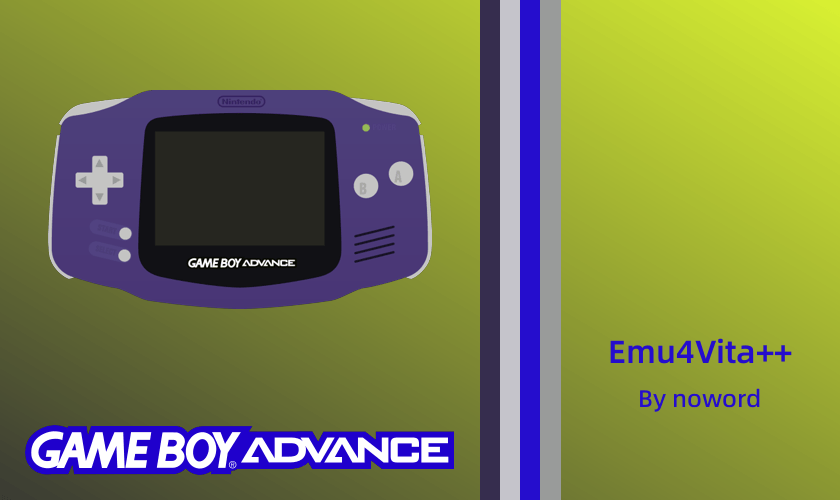
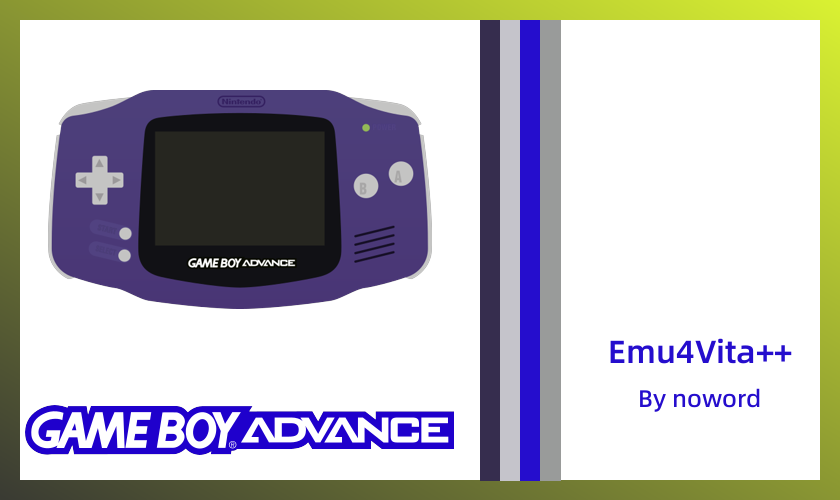
update livearea images

diff --git a/script/gen_livearea.py b/script/gen_livearea.py
@@ -20,6 +20,7 @@ TEXT_X = CONSOLE_WIDTH + STRIP_WIDTH * 4
 TEXT_Y = HEIGHT - 210
 TEXT_W = WIDTH - TEXT_X
 TEXT_H = 210 // 2
+EDGE_WIDTH = 20
 FONT = ImageFont.truetype('AlibabaPuHuiTi-2-75-SemiBold.ttf', 32)
 SMALL_FONT = ImageFont.truetype('AlibabaPuHuiTi-2-65-Medium.ttf', 24)
 TEXT = 'Emu4Vita++'
@@ -80,7 +81,7 @@ def do(console_name, cores):
         w, h = console.size
     im.paste(console, ((CONSOLE_WIDTH - w) // 2, (CONSOLE_HEIGHT - h) // 2), console)
     w, h = logo.size
-    im.paste(logo, (((LOGO_WIDTH - w) // 2, CONSOLE_HEIGHT + (LOGO_HEIGHT - h) // 2)), logo)
+    im.paste(logo, (((LOGO_WIDTH - w) // 2, CONSOLE_HEIGHT + (LOGO_HEIGHT - h) // 2 - EDGE_WIDTH)), logo)
 
     out = BytesIO()
     im.save(out, format='png')
@@ -89,14 +90,14 @@ def do(console_name, cores):
     draw = ImageDraw.Draw(im)
     for i, color in enumerate(colors):
         x = CONSOLE_WIDTH + i * STRIP_WIDTH
-        draw.rectangle((x, 0, x + STRIP_WIDTH, HEIGHT), fill=color)
+        draw.rectangle((x, EDGE_WIDTH, x + STRIP_WIDTH, HEIGHT - EDGE_WIDTH), fill=color)
 
     colors.sort(key=lambda x: get_luminance(x))
 
-    if console_name in NOT_DARKEST:
-        dark_color = colors[NOT_DARKEST[console_name]]
-    else:
-        dark_color = colors[0]
+    # if console_name in NOT_DARKEST:
+    # dark_color = colors[NOT_DARKEST[console_name]]
+    # else:
+    dark_color = colors[0]
 
     left, top, right, buttom = draw.textbbox((0, 0), TEXT, font=FONT)
     w = right - left
@@ -115,6 +116,8 @@ def do(console_name, cores):
         calculate_complementary_color(colors[0]),
         calculate_complementary_color(colors[-1]),
     )
+    white_bg = Image.new("RGBA", (WIDTH - EDGE_WIDTH * 2, HEIGHT - EDGE_WIDTH * 2), 'white')
+    bg.paste(white_bg, (EDGE_WIDTH, EDGE_WIDTH))
     bg.paste(im, mask=im)
     bg = bg.convert('RGB')
     bg.save(f'{console_name}.png')
